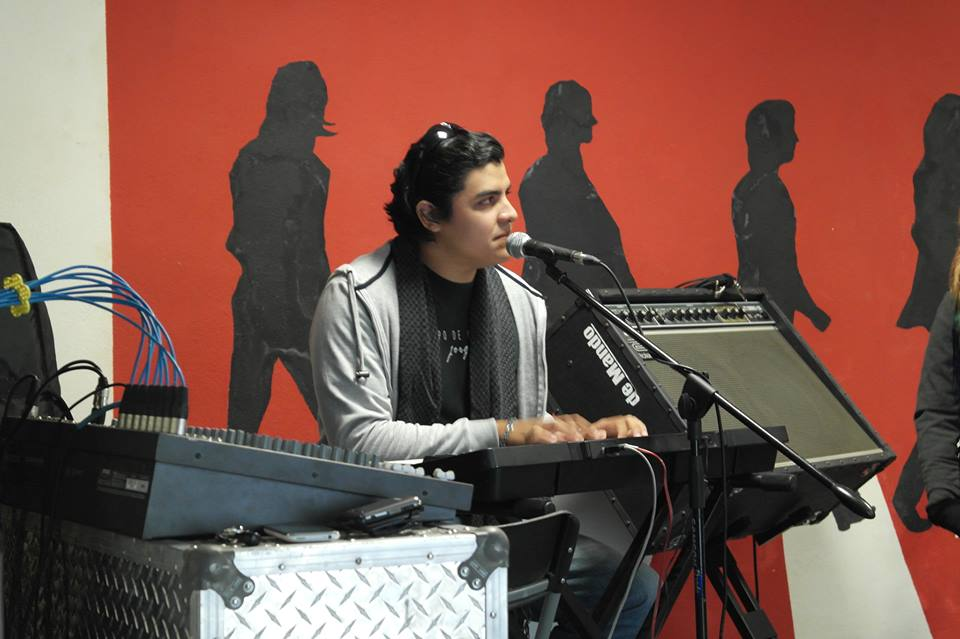
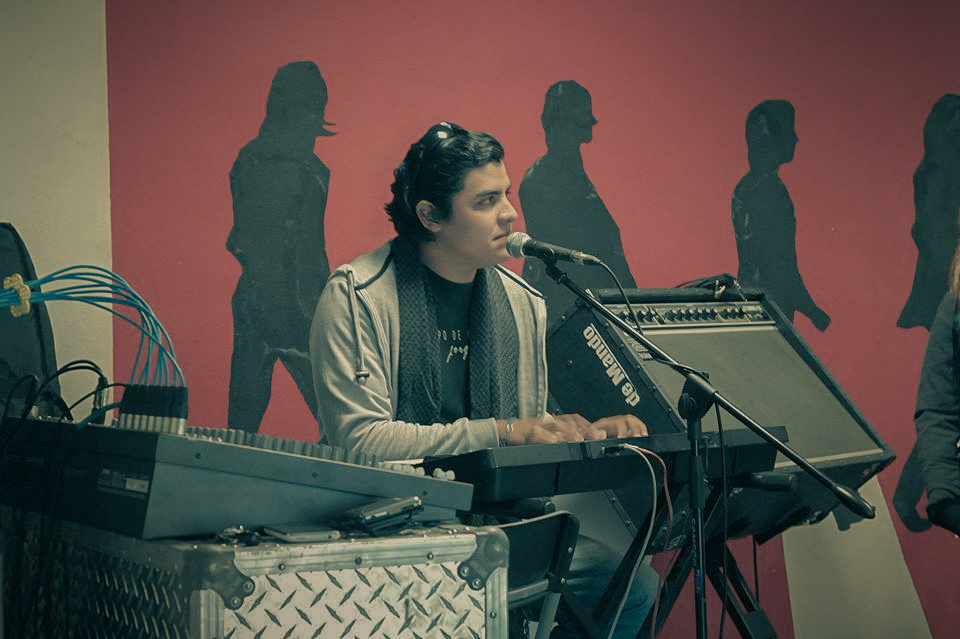
Mejora Vista y Corregir Formato
- Se edita la foto de sobre mi también.
- Formato de bdd con doble espacio para hora
- Corrige funcionamiento de registro de visita para estadísticas.
- Optimización de Carga de página

diff --git a/assets/css/index.css b/assets/css/index.css
@@ -16,7 +16,7 @@
 }
 #sobre_mi{
 	background-image: 
-    linear-gradient( hsla(200, 20%, 20%, 0.5), hsla(230, 15%, 25%, 0.7) ),
+    linear-gradient( hsla(200, 100%, 3%, 0.45), hsla(230, 80%, 3%, 0.65)),
     url('/assets/img/sobre_mi.jpg');
 	background-repeat: no-repeat;
 	background-size: cover;
@@ -126,10 +126,13 @@
     margin-bottom: 50px;
 }
 
-@media (max-width: 815px) {
+@media (max-width: 992px) {
 	.vh100{
 		height: auto;
 	}
+}
+
+@media (max-width: 815px) {
 	#servicios{
 		height: auto !important;
 		padding-bottom: 20px;

diff --git a/application/views/modules/index/servicios.php b/application/views/modules/index/servicios.php
@@ -1,7 +1,7 @@
 <div class="container-flex referencias parallax100 centrarObjetos" id="servicios">
 	<div class="container">
 		<div class="row">
-			<div class="col-md pointer transicion vh100 centrarObjetos" id="videos_link">
+			<div class="col-lg pointer transicion vh100 centrarObjetos" id="videos_link">
 				<div>
 					<h4 class="text-center">ALGUNOS TRABAJOS</h4>
 					<p class="text-center">
@@ -9,7 +9,7 @@
 					</p>	
 				</div>
 			</div>
-			<div class="col-md pointer transicion vh100 centrarObjetos" id="grabaciones_link">
+			<div class="col-lg pointer transicion vh100 centrarObjetos" id="grabaciones_link">
 				<div>
 					<h4 class="text-center">¿QUIERES GRABAR?</h4>
 					<p class="text-center">
@@ -17,7 +17,7 @@
 					</p>	
 				</div>
 			</div>
-			<div class="col-md pointer transicion vh100 centrarObjetos" id="trabajo_link">
+			<div class="col-lg pointer transicion vh100 centrarObjetos" id="trabajo_link">
 				<div>
 					<h4 class="text-center">¿HACEMOS ALGO JUNTOS?</h4>
 					<p class="text-center">
@@ -26,7 +26,7 @@
 				</div>
 			</div>
 			<!-- SE AGREGARÁN LOS CURSOS HASTA QUE ESTÉN LISTOS -->
-			<!-- <div class="col-md parpadeo vh100 centrarObjetos" id="cursos_link">
+			<!-- <div class="col-lg parpadeo vh100 centrarObjetos" id="cursos_link">
 				<div>
 					<h4 class="text-center">¡TUTORIALES Y CURSOS DISPONIBLES!</h4>
 					<p class="text-center">

diff --git a/application/models/Sesiones.php b/application/models/Sesiones.php
@@ -22,14 +22,14 @@
 		}
 
 		function registrar_ultimo_acceso($id){
-			$fecha = mdate('%Y-%m-%d %H:%i:%s', now(LOCAL_TIMEZONE));
+			$fecha = mdate('%Y-%m-%d  %H:%i:%s', now(LOCAL_TIMEZONE));
 			$this->db->set('ultimo_acceso', $fecha);
 			$this->db->where('idusuario', $id);
 			$this->db->update('usuarios');
 		}
 
 		function registrar_ingreso($id){
-			$datestring = '%Y-%m-%d %H:%i:%s';
+			$datestring = '%Y-%m-%d  %H:%i:%s';
 			$fecha = mdate($datestring, now(LOCAL_TIMEZONE));
 			$data = array(
 				'idusuario' => $id,
@@ -39,7 +39,7 @@
 		}
 
 		function registrar_salida($id_registro){
-			$fecha = mdate('%Y-%m-%d %H:%i:%s', now(LOCAL_TIMEZONE));
+			$fecha = mdate('%Y-%m-%d  %H:%i:%s', now(LOCAL_TIMEZONE));
 			$this->db->set('fecha_salida', $fecha);
 			$this->db->where('idinicios_sesion', $id_registro);
 			$this->db->update('inicios_sesion');

diff --git a/application/views/templates/footer.php b/application/views/templates/footer.php
@@ -1,4 +1,4 @@
-<div class="container-flex" id="footer">
+	<div class="container-flex" id="footer">
 	<div style="height: 10px;"></div>
 	<div class="container">
 		<div class="row">
@@ -22,7 +22,7 @@
 	<script type="text/javascript" src="<?php echo (base_url().'assets/js/bootstrap.js') ?>" defer></script>
 	<script type="text/javascript" src="<?php echo (base_url().'assets/js/sweetalert2.js') ?>" defer></script>
 	<script type="text/javascript"src="<?php echo (base_url().'assets/js/general.js') ?>" defer></script>
-	<script type="text/javascript"src="<?php echo (base_url().'assets/js/registrar_visita.js') ?>" defer></script>
+	<script type="text/javascript"src="<?php echo (base_url().'assets/js/registrar_visita.php') ?>" defer></script>
 	<script>var baseUrl="<?= base_url();?>"</script>
 </body>
 </html>

diff --git a/application/models/Enviar_estadisticas.php b/application/models/Enviar_estadisticas.php
@@ -7,7 +7,7 @@
 		}
 
 		function registrar_visita(){
-			$datestring = '%Y-%m-%d %H:%i:%s';
+			$datestring = '%Y-%m-%d  %H:%i:%s';
 			$fecha = mdate($datestring, now(LOCAL_TIMEZONE));
 			$data = array(
 				'date' => $fecha,
@@ -30,7 +30,7 @@
 			$query = 'SELECT idvisitas_frecuencia, cantidad_visitas FROM visitas_frecuencia where key_visita = \''.$identificador.'\'';
 			$consulta = $this->db->query($query)->result_array();
 			if (!$consulta) { $es_nuevo = true; } else{ $es_nuevo = false; }
-			$datestring = '%Y-%m-%d %H:%i:%s';
+			$datestring = '%Y-%m-%d  %H:%i:%s';
 			$fecha = mdate($datestring, now(LOCAL_TIMEZONE));
 			if ($es_nuevo) {
 				$data = array(

diff --git a/application/controllers/Pages.php b/application/controllers/Pages.php
@@ -12,7 +12,7 @@
 		}
 
 		function index(){
-			$datestring = '%Y/%m/%d - %h:%i:%s %A';
+			$datestring = '%Y-%m-%d  %H:%i:%s';
 			$data['fecha'] = mdate($datestring, now(LOCAL_TIMEZONE));
 			$data['modules_ubication'] = 'modules/index/';
 			$this->load->view('templates/header.php');
@@ -28,7 +28,7 @@
 		}
 
 		function nuevo_registro(){
-			// $this->Enviar_estadisticas->registrar_visita();
+			$this->Enviar_estadisticas->registrar_visita();
 			$this->Enviar_estadisticas->registrar_frecuencia();
 		}
 

diff --git a/application/views/pages/index.php b/application/views/pages/index.php
@@ -34,7 +34,7 @@
 		</div>
 	</div>
 </div>
-<div class="container-flex bienvenida parallax50 centrarObjetos">
+<div class="container-flex bienvenida parallax75 centrarObjetos">
 	<div class="container">
 		<div>
 			<h3 class="titulo1">¡Bienvenido a mi página!</h3>

diff --git a/assets/js/registrar_visita.php b/assets/js/registrar_visita.php
@@ -12,4 +12,4 @@ user.ip = "<?= $_SERVER['REMOTE_ADDR'] ?>";
 user.paginaActual = "<?= $_SERVER['PHP_SELF'] ?>"; 
  
 // REGISTRO EN BASE DE DATOS 
-$.post(baseUrl+'index.php/reg', {'user': user.user});
+$.post(baseUrl+'index.php/reg', {'user': user});

diff --git a/application/views/modules/index/sobre_mi.php b/application/views/modules/index/sobre_mi.php
@@ -1,4 +1,4 @@
-<div class="container-flex parallax50 centrarObjetos" id="sobre_mi">
+<div class="container-flex parallax75 centrarObjetos" id="sobre_mi">
 	<div class="container">
 		<div class="row">
 			<div class="col-md-4 centrarObjetos">
